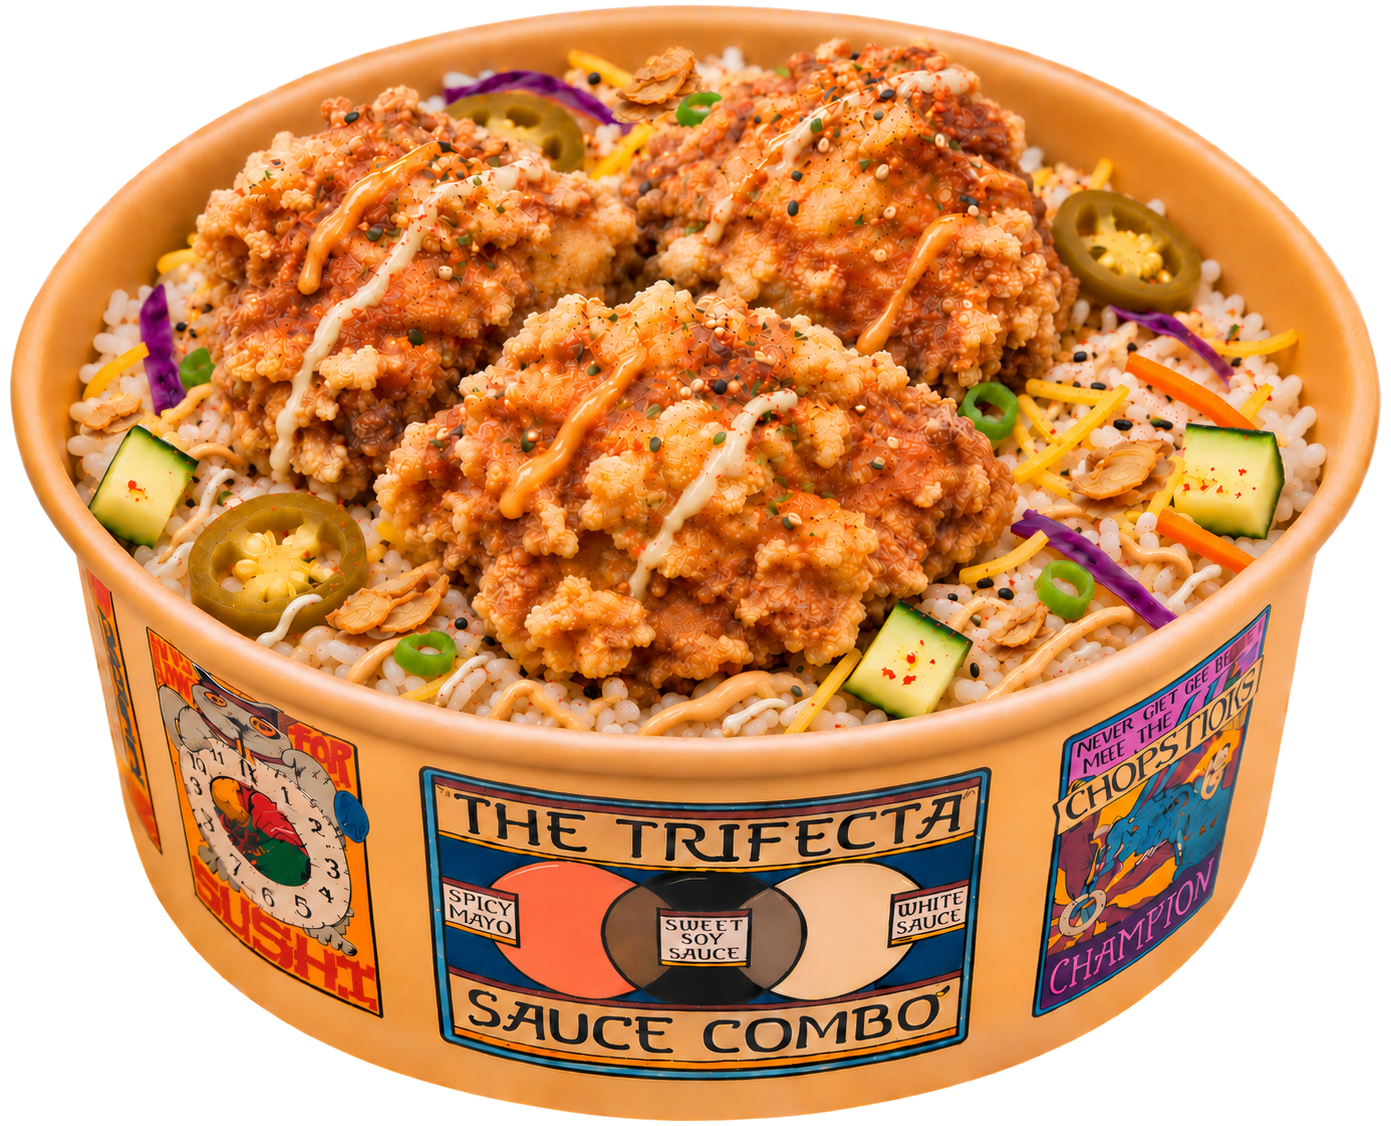
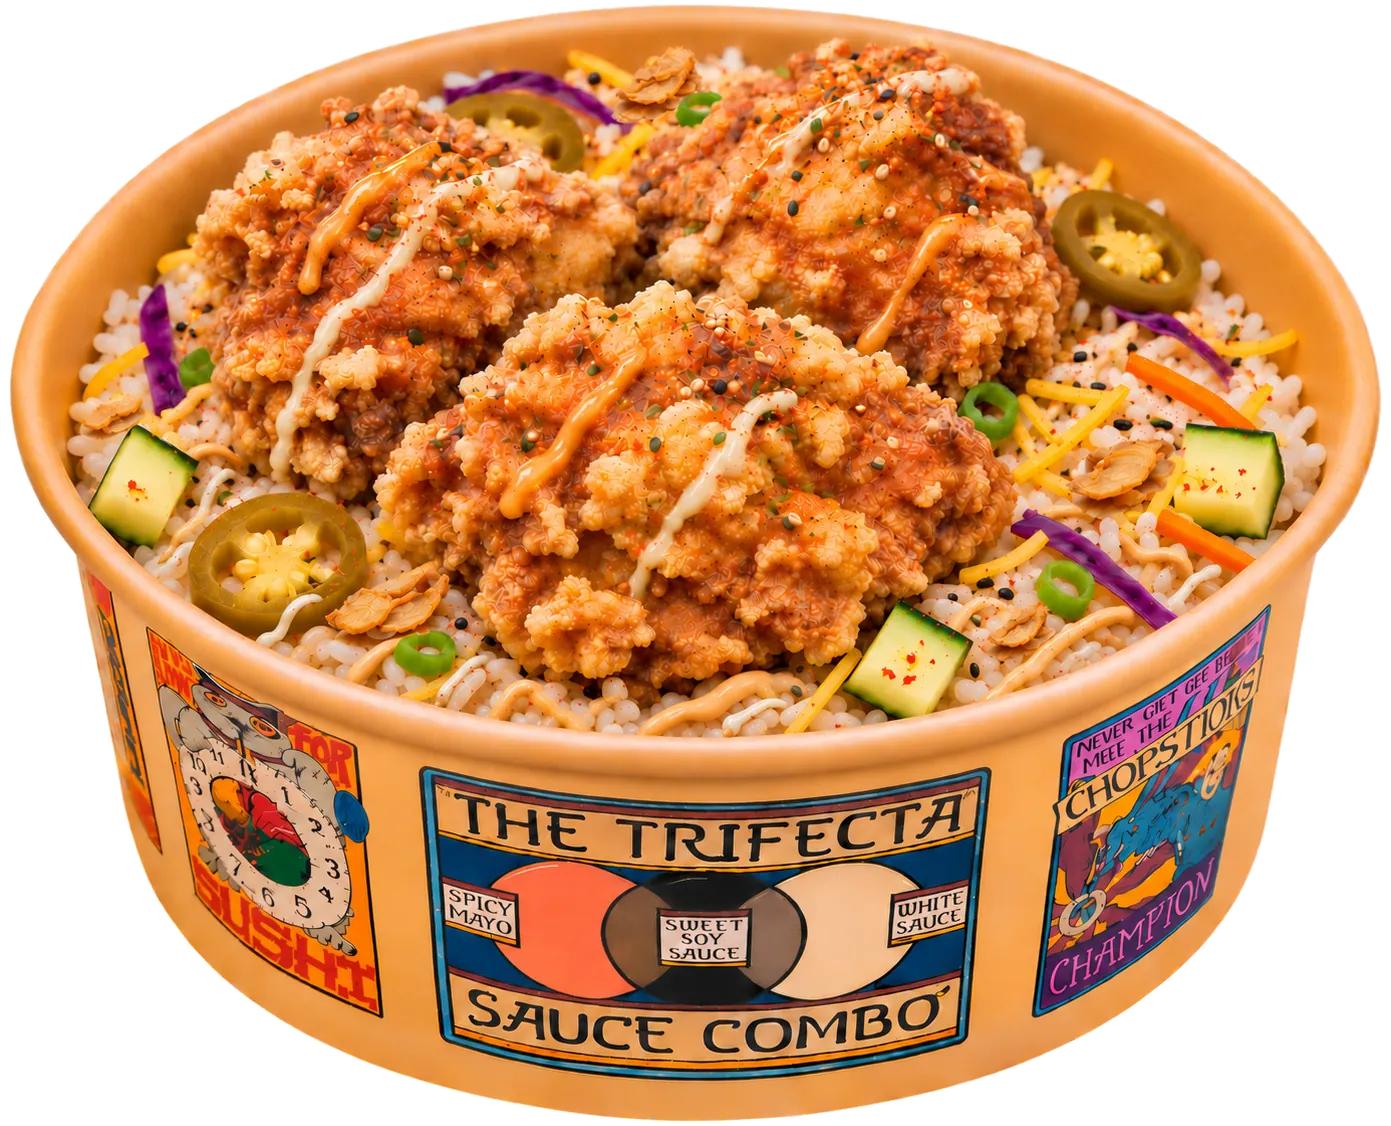
Fix VS select layout and compress the Combat bowl.
P1 stands on the left facing the Ninja, with the nameplate under the fighter instead of over the stage. The bowl photo is a much smaller WebP with a mobile srcset.

diff --git a/css/v4.css b/css/v4.css
@@ -420,34 +420,114 @@
 .cfloor__plate-in{font-family:var(--f-pixel2);font-size:.8rem;color:#fff;text-transform:uppercase;margin:0 0 4px}
 .cfloor__plate-bio{font-family:var(--f-pixel2);font-size:.75rem;color:#fff;line-height:1.25;margin:0 0 2px}
 .cfloor__plate-sp{font-family:var(--f-pixel2);font-size:.7rem;color:var(--yellow);text-transform:uppercase;margin:0}
+/* VS select: P1 left facing right, ninja right facing left, nameplate under P1 */
+#k-combat[data-state="idle"] .cfloor__board,
+#k-combat[data-state="select"] .cfloor__board{grid-template-columns:minmax(0,1fr) minmax(300px,1.2fr)}
+#k-combat[data-state="idle"] .cfloor__ring.arena,
+#k-combat[data-state="select"] .cfloor__ring.arena{
+  display:grid;
+  grid-template-columns:minmax(0,1fr) minmax(0,1fr);
+  grid-template-rows:auto minmax(200px,1fr) auto;
+  grid-template-areas:"insert insert" "p1 p2" "plate meta";
+  height:auto;
+  min-height:0;
+  padding:6px 8px 8px;
+  align-items:end;
+  column-gap:8px;
+}
+#k-combat[data-state="idle"] .cfloor__insert,
+#k-combat[data-state="select"] .cfloor__insert{
+  grid-area:insert;
+  position:relative;
+  left:auto;top:auto;transform:none;
+  width:100%;text-align:center;justify-self:center;
+  z-index:1;white-space:nowrap;
+}
 #k-combat[data-state="idle"] .cfloor .fighter--p1,
-#k-combat[data-state="select"] .cfloor .fighter--p1{left:10%!important;opacity:1;transform:none;pointer-events:none}
+#k-combat[data-state="select"] .cfloor .fighter--p1{
+  grid-area:p1;
+  position:relative;
+  left:auto!important;right:auto;bottom:auto;
+  width:100%;max-width:100%;
+  display:flex;justify-content:center;align-items:flex-end;
+  opacity:1;transform:none;pointer-events:none;z-index:2;
+}
+#k-combat[data-state="idle"] .cfloor .fighter--p2,
+#k-combat[data-state="select"] .cfloor .fighter--p2{
+  grid-area:p2;
+  position:relative;
+  left:auto;right:auto!important;bottom:auto;
+  width:100%;max-width:100%;
+  display:flex;justify-content:center;align-items:flex-end;
+  opacity:1;transform:none;z-index:2;
+}
 #k-combat[data-state="idle"] .cfloor .fighter--p1.is-out,
 #k-combat[data-state="select"] .cfloor .fighter--p1.is-out{opacity:1;transform:none}
 #k-combat[data-state="idle"] .cfloor .fighter--p1 img,
 #k-combat[data-state="select"] .cfloor .fighter--p1 img,
 #k-combat[data-state="idle"] .cfloor .fighter--p2 img,
-#k-combat[data-state="select"] .cfloor .fighter--p2 img{height:200px!important}
-#k-combat[data-state="idle"] .cfloor__ring.arena,
-#k-combat[data-state="select"] .cfloor__ring.arena{height:clamp(230px,32vh,280px)}
+#k-combat[data-state="select"] .cfloor .fighter--p2 img{
+  height:clamp(160px,24vh,240px);
+  width:auto;
+  max-width:100%;
+  max-height:240px;
+  object-fit:contain;
+  object-position:center bottom;
+}
+#k-combat[data-state="idle"] .cfloor__plate,
+#k-combat[data-state="select"] .cfloor__plate{
+  grid-area:plate;
+  position:relative;
+  left:auto;right:auto;bottom:auto;
+  max-width:100%;
+  width:auto;
+  margin:6px 4px 0 0;
+  z-index:3;
+  align-self:start;
+}
 #k-combat[data-state="fight"] .cfloor__plate,
 #k-combat[data-state="entrance"] .cfloor__plate,
 #k-combat[data-state="ko"] .cfloor__plate{display:none}
 #k-combat[data-state="idle"] .cfloor__prompt,
-#k-combat[data-state="select"] .cfloor__prompt{left:auto;right:12px;bottom:8px;max-width:42%;text-align:right}
+#k-combat[data-state="select"] .cfloor__prompt{display:none}
 @media (max-width:760px){
   .cfloor__grid{grid-template-columns:repeat(3,minmax(0,1fr));gap:8px}
   .cfloor__grid .rcell__box{min-height:72px;padding:2px}
   .cfloor__board{grid-template-columns:1fr}
   .cfloor__ring{order:-1}
+  #k-combat[data-state="idle"] .cfloor__board,
+  #k-combat[data-state="select"] .cfloor__board{grid-template-columns:1fr}
   #k-combat[data-state="idle"] .cfloor__ring.arena,
-  #k-combat[data-state="select"] .cfloor__ring.arena{height:200px}
+  #k-combat[data-state="select"] .cfloor__ring.arena{
+    grid-template-areas:"insert insert" "p1 p2" "plate plate";
+    padding:4px 6px 8px;
+    column-gap:4px;
+  }
   #k-combat[data-state="idle"] .cfloor .fighter--p1 img,
   #k-combat[data-state="select"] .cfloor .fighter--p1 img,
   #k-combat[data-state="idle"] .cfloor .fighter--p2 img,
-  #k-combat[data-state="select"] .cfloor .fighter--p2 img{height:132px!important}
-  .cfloor__plate{left:6px;right:auto;bottom:6px;max-width:58%;padding:6px 8px}
+  #k-combat[data-state="select"] .cfloor .fighter--p2 img{
+    height:clamp(120px,28vw,160px);
+    max-height:160px;
+  }
+  #k-combat[data-state="idle"] .cfloor__plate,
+  #k-combat[data-state="select"] .cfloor__plate{margin:6px 0 0;padding:6px 8px}
   .cfloor__plate-name{font-size:.85rem}
   .cfloor__plate-bio{font-size:.7rem}
 }
-#k-combat[data-state="idle"] .cfloor__prompt,#k-combat[data-state="select"] .cfloor__prompt{display:none}
+@media (max-width:360px){
+  #k-combat[data-state="idle"] .cfloor .fighter--p1 img,
+  #k-combat[data-state="select"] .cfloor .fighter--p1 img,
+  #k-combat[data-state="idle"] .cfloor .fighter--p2 img,
+  #k-combat[data-state="select"] .cfloor .fighter--p2 img{
+    height:120px;
+    max-height:120px;
+  }
+  #k-combat[data-state="idle"] .cfloor__insert,
+  #k-combat[data-state="select"] .cfloor__insert{
+    white-space:normal;
+    letter-spacing:.02em;
+    font-size:.55rem;
+    max-width:100%;
+  }
+}

diff --git a/index.html b/index.html
@@ -134,7 +134,7 @@
           <img src="assets/wm-combat.webp" alt="Karaage Combat Bowl" width="1600" height="460">
         </h2>
         <div class="cbowl__stage" data-cbowl-stage>
-          <img class="cbowl__img" src="assets/bowl-combat.webp" alt="Karaage Combat Bowl: three crispy karaage over sushi rice with fried onions, pickled jalapeños, shredded cheese, scallions, purple cabbage, carrots, cucumber and Sus Hi sauce." width="1391" height="1126" loading="lazy">
+          <img class="cbowl__img" src="assets/bowl-combat.webp" srcset="assets/bowl-combat-sm.webp 800w, assets/bowl-combat.webp 1391w" sizes="(max-width:760px) 92vw, min(820px,68vh)" alt="Karaage Combat Bowl: three crispy karaage over sushi rice with fried onions, pickled jalapeños, shredded cheese, scallions, purple cabbage, carrots, cucumber and Sus Hi sauce." width="1391" height="1126" loading="lazy">
           <ul class="cbowl__tags" id="cbowl-tags" aria-hidden="true">
             <li class="ctag ctag--l" data-k="scallions" style="--ty:2%"><img src="assets/f-scallions.webp" alt="" width="40" height="40" loading="lazy"><span>Scallions<i>In the bowl</i></span></li>
             <li class="ctag ctag--l" data-k="fire-sauce" style="--ty:18%"><img src="assets/f-fire-sauce.webp" alt="" width="40" height="40" loading="lazy"><span>Fire Sauce<i>In the bowl</i></span></li>
@@ -357,7 +357,7 @@
       <p class="fighters__sub">Japanese Fried Chicken (JFC), five ways. Same crispy Chicken Karaage.</p>
     </div>
     <ul class="roster-cards">
-      <li class="rc rc--combat" data-rc><img src="assets/bowl-combat.webp" alt="" width="1391" height="1126" loading="lazy">
+      <li class="rc rc--combat" data-rc><img src="assets/bowl-combat.webp" srcset="assets/bowl-combat-sm.webp 800w, assets/bowl-combat.webp 1391w" sizes="(max-width:760px) 46vw, 280px" alt="" width="1391" height="1126" loading="lazy">
         <h3 class="rc__name">Karaage Combat Bowl</h3>
         <dl class="rc__facts"><div><dt>Spicy</dt><dd class="hot">Yes</dd></div><div><dt>Base</dt><dd>Sushi rice</dd></div><div><dt>Price</dt><dd>$--</dd></div></dl>
         <a class="btn-order btn-order--sm" href="#order">Order<span class="sr-only"> Karaage Combat Bowl</span></a></li>
